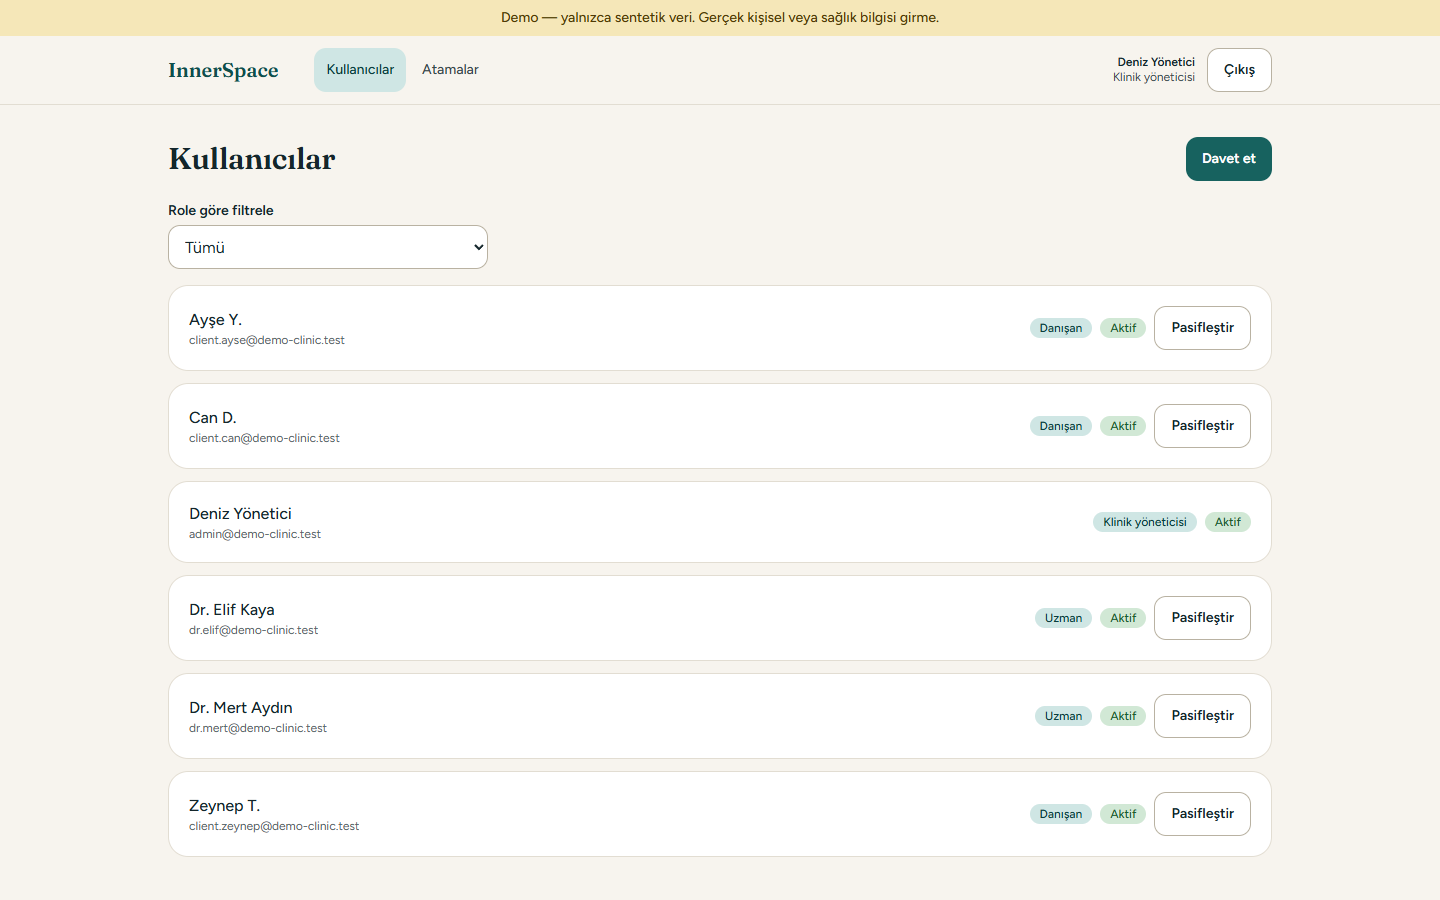
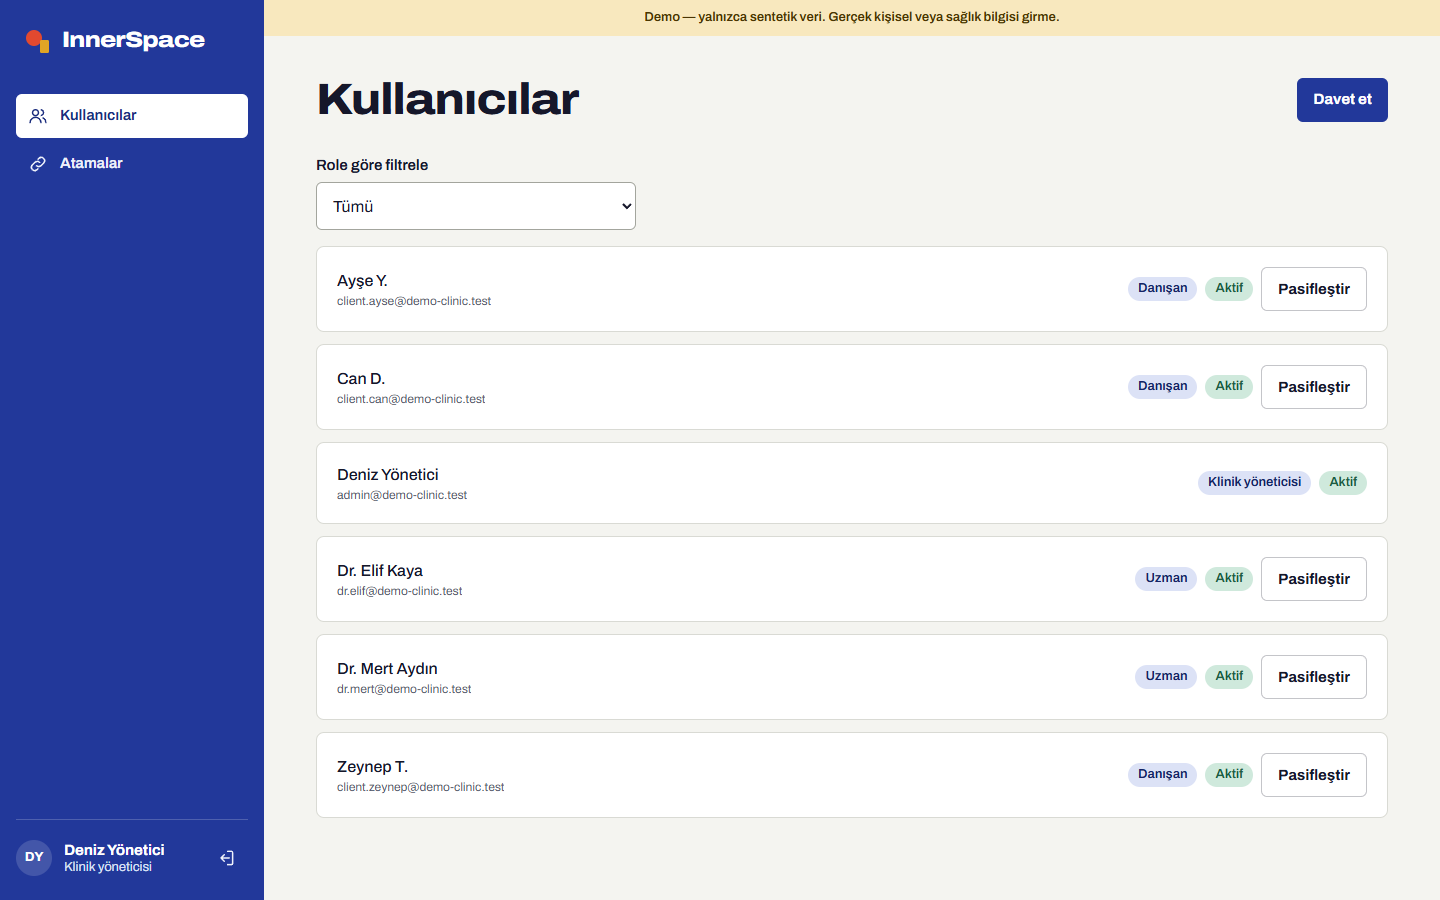
docs: new screenshots, demo GIF and README for the redesign and one-click demo login

diff --git a/README.md b/README.md
@@ -7,24 +7,32 @@
 > [!WARNING]
 > **Portfolio project, synthetic data only.** InnerSpace is not a medical device, does not diagnose, and does not provide treatment or crisis support. Do not enter real personal or health information. If you are in crisis, contact your local emergency number (112 in Türkiye).
 
-**Live demo:** https://innerspace-web.onrender.com (Turkish UI; demo accounts available on request).
+**Live demo:** https://innerspace-web.onrender.com (Turkish UI). On the sign-in page, choose **Danışan / Uzman / Yönetici olarak dene** to enter as the synthetic client, clinician or clinic admin with one click. The free instance may take a minute to wake up.
 
 ## Screenshots
 
-![InnerSpace demo: a client reviews an AI summary and shares it with their clinician](assets/screenshots/demo.gif)
+![InnerSpace demo: one-click sign-in as a client, the 21-day rhythm, a source-cited summary, then the clinician seeing it marked new](assets/screenshots/demo.gif)
 
 | | |
 |---|---|
-| ![Landing page](assets/screenshots/landing.png) | ![Client view of a shared, source-cited summary](assets/screenshots/client-summary.png) |
-| ![Clinician view of a summary the client chose to share](assets/screenshots/clinician-summary.png) | ![Client support plan editor](assets/screenshots/client-plan.png) |
-| ![Client "in the moment" card with large steps and contacts](assets/screenshots/client-moment.png) | ![Clinician view of one client: appointments and shared plan](assets/screenshots/clinician-client-detail.png) |
-| ![Clinic admin user management](assets/screenshots/admin-users.png) | <img src="assets/screenshots/client-moment-mobile.png" alt="In the moment card on a phone-sized screen" width="240"> |
+| ![Client home: next appointment, 21-day sleep and attack rhythm, last summary](assets/screenshots/client-home.png) | ![Client view of a shared summary; each statement opens the client's own source entries](assets/screenshots/client-summary.png) |
+| ![Clinician client list with new-summary markers and last share dates](assets/screenshots/clinician-clients.png) | ![Clinician view of a summary the client chose to share](assets/screenshots/clinician-summary.png) |
+| ![Landing page](assets/screenshots/landing.png) | ![Sign-in with one-click demo roles](assets/screenshots/login.png) |
+| ![Client entries, each kind with its own mark](assets/screenshots/client-entries.png) | ![Clinician view of one client: shared summaries, plan and appointments](assets/screenshots/clinician-client-detail.png) |
+| ![Client support plan editor](assets/screenshots/client-plan.png) | ![Clinic admin user management](assets/screenshots/admin-users.png) |
+
+| Phone | | |
+|---|---|---|
+| <img src="assets/screenshots/client-home-mobile.png" alt="Client home on a phone" width="240"> | <img src="assets/screenshots/client-menu-mobile.png" alt="Phone navigation: tab bar and the Daha sheet" width="240"> | <img src="assets/screenshots/client-moment-mobile.png" alt="In the moment card on a phone" width="240"> |
+
+The visual language borrows from 1960s-80s Istanbul graphic modernism: a cobalt shell, one typeface (Archivo), and one geometric mark per record kind (attack disc sized by intensity, sleep bar, medication square, avoidance ring), used the same way in the trend strip, entry list and summaries. The landing cover is a generated abstract poster (no people, no real data).
 
 ## Features
 
 **Client**
-- **Entries:** quick entries, panic episode logs, medication and side-effect notes, avoidance notes. Visible only to the client.
-- **AI summary:** pre-appointment summary where every statement cites the client's own entries. The client edits, approves and shares it; sharing can be revoked. The client can add their own "topics to talk about" (never AI-written, same guardrails).
+- **Home ("Bugün"):** the next appointment with a one-tap "prepare" or "open summary", the last summary, and a 21-day strip of recorded sleep and attacks (computed from the client's own entries, no AI), described in plain sentences rather than scores.
+- **Entries:** quick entries (with optional sleep hours), panic episode logs, medication and side-effect notes, avoidance notes. Visible only to the client.
+- **AI summary:** pre-appointment summary where every statement cites the client's own entries (each statement opens those entries). The client edits, approves and shares it; sharing can be revoked. The client can add their own "topics to talk about" (never AI-written, same guardrails).
 - **After-session note:** a short note structured into "what we discussed / what I'll try / questions for next time".
 - **Appointments:** read-only for the client; a summary can be prepared for a specific appointment.
 - **"Planım" and the "O an" card:** a support plan written by the client, with a card for difficult moments; optionally shared read-only with the clinician.
@@ -34,6 +42,10 @@
 
 **Clinician**
 - Sees assigned clients and only the summaries (and plan) a client has approved and shared; creates, edits and deletes appointments of assigned clients.
+- The client list shows each client's last share date and how many shared summaries are new (not opened since they were shared or re-shared), with a direct link to the newest one. Opening a summary records a content-free read receipt.
+
+**Demo sign-in**
+- With `DEMO_LOGIN_ENABLED=true` (the public demo only), `POST /api/v1/auth/demo-login {"role": "client" | "clinician" | "org_admin"}` signs into the seeded `demo-clinic` account of that role. No password is involved or shipped to the browser; it is rate limited per IP and audited (`auth.demo_login`), works for no other account, and while enabled the demo admin cannot deactivate the demo accounts or remove their assignment. Off by default.
 
 **Clinic admin (`org_admin`)**
 - Invites users, activates/deactivates them and manages clinician-client assignments. Sees no clinical content.
@@ -67,6 +79,7 @@ Enforced in the backend (role dependencies + scoped queries), never by the LLM. 
 | Entries (log, panic, medication, avoidance) | read/write | none | none | none | none |
 | Summary drafts, unshared summaries, topics | read/write/approve | none | none | none | none |
 | Shared summary (incl. topics) | read, unshare | read-only, only while shared (and shared after the assignment began) | none | none | none |
+| Sharing metadata (last share date, new count) | n/a | read, counting only summaries it may read | none | none | none |
 | After-session notes | read/write | none | none | none | none |
 | Appointments | read-only | read/write (create, edit, delete) | none | none | none |
 | Plan ("Planım") | read/write | none | none | none | none |
@@ -74,7 +87,7 @@ Enforced in the backend (role dependencies + scoped queries), never by the LLM. 
 | Users and assignments management | none | none | none | read/write (own org only) | none |
 | Export / delete account | own data only | none | none | none | none |
 
-Covered by: `backend/tests/test_auth_rbac.py` (roles, isolation, admin, invitations), `test_planning.py` (appointments and plan: assigned / unassigned / other org / admin), `test_phase8.py` (topics, reminders, export, delete), `test_ai.py` and `test_jobs.py` (summary generation, sharing and job access), `test_entries.py`, `test_predeploy_fixes.py`, and `test_observability.py` (no content in logs).
+Covered by: `backend/tests/test_auth_rbac.py` (roles, isolation, admin, invitations), `test_planning.py` (appointments and plan: assigned / unassigned / other org / admin), `test_phase8.py` (topics, reminders, export, delete), `test_ai.py` and `test_jobs.py` (summary generation, sharing and job access), `test_entries.py`, `test_demo_and_sharing.py` (demo sign-in, sharing overview isolation), `test_predeploy_fixes.py`, and `test_observability.py` (no content in logs).
 
 ## AI safety
 
@@ -119,8 +132,8 @@ The injection and citation evals run as assertions in `tests/test_evals.py` (`py
 ## Testing
 
 ```bash
-cd backend && uv run pytest -q    # 482 passed (real PostgreSQL)
-cd frontend && npx vitest run     # 60 passed (8 test files)
+cd backend && uv run pytest -q    # 494 passed (real PostgreSQL)
+cd frontend && npx vitest run     # 79 passed (11 test files)
 ```
 
 CI (`.github/workflows/ci.yml`) runs on every push and PR: backend (Postgres + Redis, migrations, pytest, ruff, pip-audit), frontend (lint, tests, build, npm audit) and a Docker image build.
@@ -137,6 +150,7 @@ uv sync
 uv run pre-commit install     # secret scanning and lint checks before each commit
 uv run alembic upgrade head
 uv run python -m app.seed     # synthetic demo data; prints a random password unless SEED_PASSWORD is set
+                              # DEMO_LOGIN_ENABLED=true in .env adds the one-click demo buttons
 uv run uvicorn app.main:create_app --factory --reload
 ```
 
@@ -156,7 +170,7 @@ Render Blueprint (`render.yaml`): one web service running the API plus a thread-
 
 ## Project status
 
-Phases 0-8 are complete: repository and tooling, backend foundation, authentication and authorization, AI summaries, background jobs, evaluation and observability, Docker/CI/Render, appointments and support plan, and topics, reminders, data export and deletion. The React frontend covers client, clinician and clinic-admin screens.
+Phases 0-8 are complete: repository and tooling, backend foundation, authentication and authorization, AI summaries, background jobs, evaluation and observability, Docker/CI/Render, appointments and support plan, and topics, reminders, data export and deletion. The React frontend covers client, clinician and clinic-admin screens; it was redesigned afterwards (new visual identity, client home, clinician sharing status, one-click demo sign-in).
 
 ## License
 

diff --git a/DEPLOYMENT.md b/DEPLOYMENT.md
@@ -29,6 +29,7 @@ Cost-optimised layout for a demo: **one** paid Render instance, everything else 
 | `METRICS_TOKEN` | api | optional; blank = `/metrics` is 404 |
 | `LOGFIRE_TOKEN` | api | optional; blank = tracing off |
 | `SEED_PASSWORD`, `SEED_DEMO=1` | api (temporary) | only for the demo seed, see below |
+| `DEMO_LOGIN_ENABLED` | api | `true` in `render.yaml`: one-click sign-in to the seeded `demo-clinic` accounts; never enable with real users |
 
 Free-tier notes: Supabase pauses projects after a period of inactivity (beat's periodic jobs query the database, which normally keeps it active; a paused project is resumed from the Supabase dashboard). The pool is kept small (`DB_POOL_SIZE=3`, `DB_MAX_OVERFLOW=2`) for the pooler's connection limit.
 
@@ -47,6 +48,8 @@ To restore the demo to a clean state (e.g. after many visitors), run the same co
 ```bash
 SEED_DEMO=1 SEED_PASSWORD='<choose 12+ chars>' python -m app.seed --reset
 ```
+
+With `DEMO_LOGIN_ENABLED=true` visitors sign in from the login page as the demo client (Ayşe), clinician (Dr. Elif) or clinic admin with one click; the seed password is never needed in the browser. Demo sign-in is rate limited per IP and audited. Run `--reset` after a release that changes the seed (for example the sleep hours added to quick entries) so the demo shows it.
 
 The password is never in the repo or printed. All demo users share it:
 
